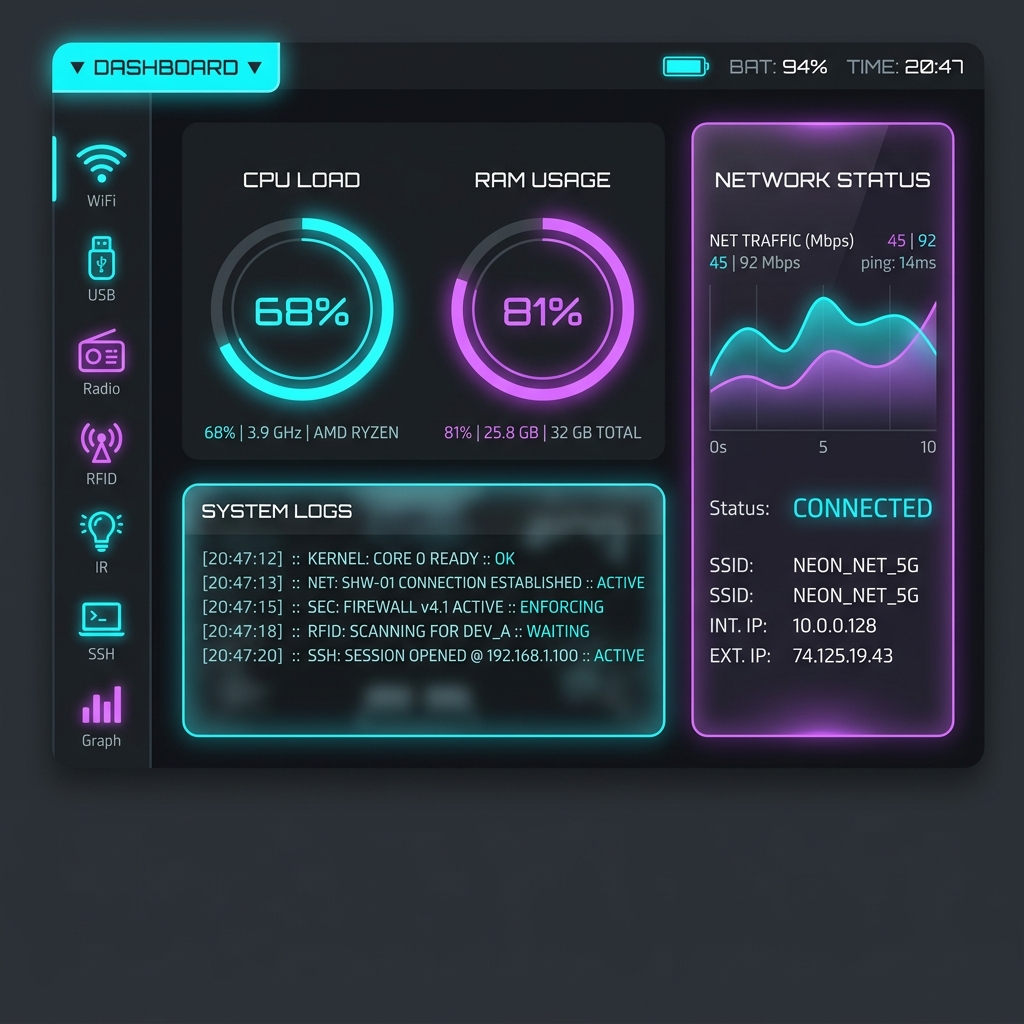
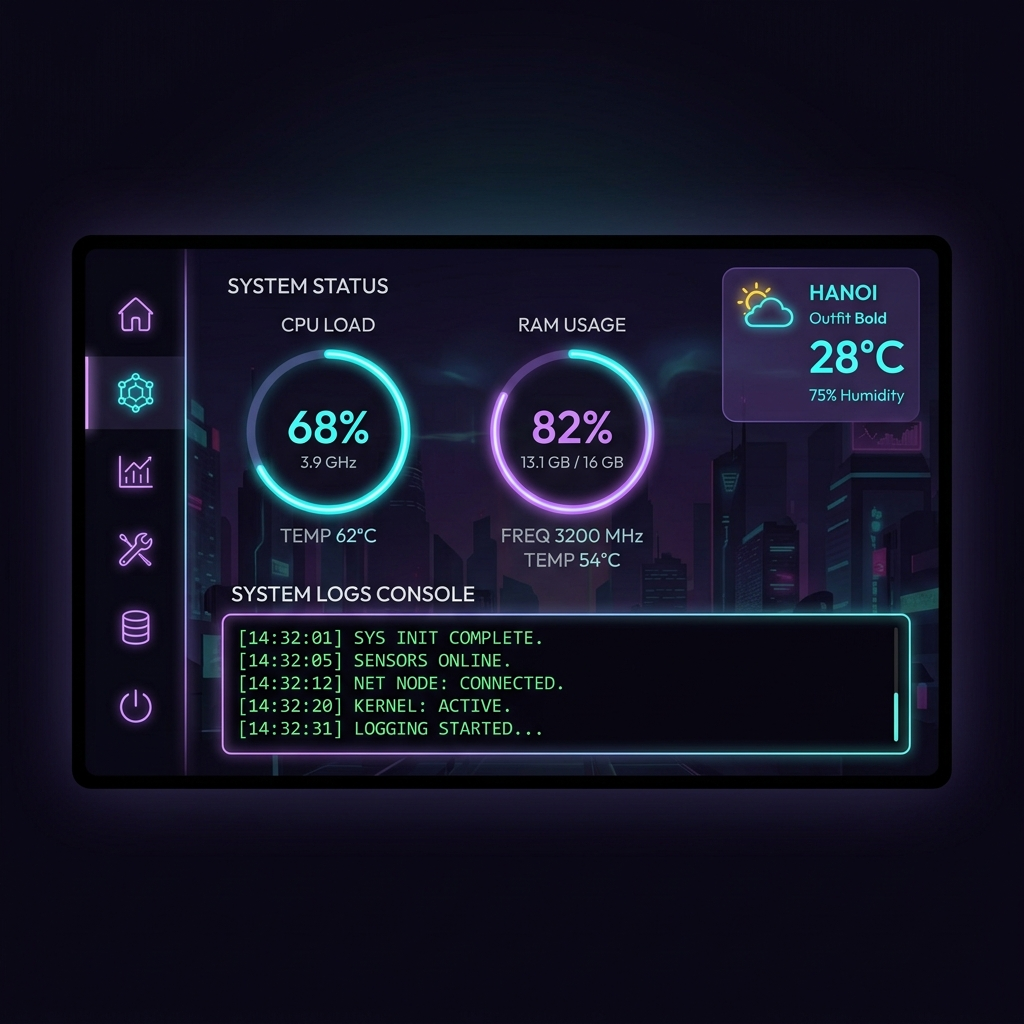
feat: implement automatic GeoIP weather client updating every 30 mins and integrate HMI DWIN Page 0 weather widget

diff --git a/ESP32_C5_Net/src/weather/weather_client.c b/ESP32_C5_Net/src/weather/weather_client.c
@@ -1,0 +1,211 @@
+#include "weather_client.h"
+#include <string.h>
+#include "esp_log.h"
+#include "esp_http_client.h"
+#include "cJSON.h"
+#include "freertos/FreeRTOS.h"
+#include "freertos/task.h"
+#include "freertos/event_groups.h"
+
+static const char *TAG = "WEATHER";
+
+// Getter cho wifi_event_group từ main.c
+extern EventGroupHandle_t get_wifi_event_group(void);
+#define WIFI_CONNECTED_BIT BIT0
+
+extern void send_to_rp2350(const char *msg);
+
+// Buffer lưu kết quả HTTP response
+static char *response_buffer = NULL;
+static int response_len = 0;
+
+static esp_err_t http_event_handler(esp_http_client_event_t *evt) {
+    switch(evt->event_id) {
+        case HTTP_EVENT_ON_DATA:
+            if (!esp_http_client_is_chunked_response(evt->client)) {
+                if (response_buffer == NULL) {
+                    response_buffer = malloc(evt->data_len + 1);
+                    if (response_buffer) {
+                        memcpy(response_buffer, evt->data, evt->data_len);
+                        response_len = evt->data_len;
+                        response_buffer[response_len] = '\0';
+                    }
+                } else {
+                    char *new_buf = realloc(response_buffer, response_len + evt->data_len + 1);
+                    if (new_buf) {
+                        response_buffer = new_buf;
+                        memcpy(response_buffer + response_len, evt->data, evt->data_len);
+                        response_len += evt->data_len;
+                        response_buffer[response_len] = '\0';
+                    }
+                }
+            }
+            break;
+        case HTTP_EVENT_ON_FINISH:
+            ESP_LOGD(TAG, "HTTP_EVENT_ON_FINISH");
+            break;
+        case HTTP_EVENT_DISCONNECTED:
+            ESP_LOGD(TAG, "HTTP_EVENT_DISCONNECTED");
+            break;
+        default:
+            break;
+    }
+    return ESP_OK;
+}
+
+// Lấy tọa độ kinh/vĩ độ bằng ip-api.com
+static bool get_location(double *lat, double *lon) {
+    if (response_buffer) {
+        free(response_buffer);
+        response_buffer = NULL;
+    }
+    response_len = 0;
+
+    esp_http_client_config_t config = {
+        .url = "http://ip-api.com/json/",
+        .event_handler = http_event_handler,
+    };
+    esp_http_client_handle_t client = esp_http_client_init(&config);
+    if (!client) {
+        ESP_LOGE(TAG, "Failed to init HTTP client for location");
+        return false;
+    }
+    esp_err_t err = esp_http_client_perform(client);
+    if (err == ESP_OK && response_buffer) {
+        cJSON *json = cJSON_Parse(response_buffer);
+        if (json) {
+            cJSON *status = cJSON_GetObjectItem(json, "status");
+            if (status && strcmp(status->valuestring, "success") == 0) {
+                cJSON *lat_item = cJSON_GetObjectItem(json, "lat");
+                cJSON *lon_item = cJSON_GetObjectItem(json, "lon");
+                if (lat_item && lon_item) {
+                    *lat = lat_item->valuedouble;
+                    *lon = lon_item->valuedouble;
+                    ESP_LOGI(TAG, "Detected location lat: %f, lon: %f", *lat, *lon);
+                    cJSON_Delete(json);
+                    esp_http_client_cleanup(client);
+                    return true;
+                }
+            }
+            cJSON_Delete(json);
+        }
+    } else {
+        ESP_LOGE(TAG, "HTTP Location request failed: %s", esp_err_to_name(err));
+    }
+    esp_http_client_cleanup(client);
+    return false;
+}
+
+// Lấy dữ liệu thời tiết bằng Open-Meteo
+static bool get_weather(double lat, double lon, int *temp, int *humidity, int *icon_id) {
+    if (response_buffer) {
+        free(response_buffer);
+        response_buffer = NULL;
+    }
+    response_len = 0;
+
+    char url[256];
+    snprintf(url, sizeof(url), "http://api.open-meteo.com/v1/forecast?latitude=%f&longitude=%f&current=temperature_2m,relative_humidity_2m,weather_code", lat, lon);
+
+    esp_http_client_config_t config = {
+        .url = url,
+        .event_handler = http_event_handler,
+    };
+    esp_http_client_handle_t client = esp_http_client_init(&config);
+    if (!client) {
+        ESP_LOGE(TAG, "Failed to init HTTP client for weather");
+        return false;
+    }
+    esp_err_t err = esp_http_client_perform(client);
+    if (err == ESP_OK && response_buffer) {
+        cJSON *json = cJSON_Parse(response_buffer);
+        if (json) {
+            cJSON *current = cJSON_GetObjectItem(json, "current");
+            if (current) {
+                cJSON *t_item = cJSON_GetObjectItem(current, "temperature_2m");
+                cJSON *h_item = cJSON_GetObjectItem(current, "relative_humidity_2m");
+                cJSON *code_item = cJSON_GetObjectItem(current, "weather_code");
+                if (t_item && h_item && code_item) {
+                    *temp = (int)(t_item->valuedouble + 0.5);
+                    *humidity = h_item->valueint;
+                    int wcode = code_item->valueint;
+                    
+                    // Ánh xạ mã thời tiết WMO sang Icon HMI DWIN
+                    // 0 = Nắng, 1 = Mây, 2 = Mưa, 3 = Dông sét
+                    if (wcode == 0) {
+                        *icon_id = 0; // Trời quang (Nắng)
+                    } else if (wcode >= 1 && wcode <= 3) {
+                        *icon_id = 1; // Nhiều mây
+                    } else if ((wcode >= 51 && wcode <= 67) || (wcode >= 80 && wcode <= 82)) {
+                        *icon_id = 2; // Mưa dông nhẹ / Mưa rào
+                    } else if (wcode >= 95) {
+                        *icon_id = 3; // Dông sét bão
+                    } else {
+                        *icon_id = 1; // Mặc định nhiều mây
+                    }
+                    
+                    ESP_LOGI(TAG, "Weather: Temp=%dC, Humid=%d%%, Code=%d (Icon=%d)", *temp, *humidity, wcode, *icon_id);
+                    cJSON_Delete(json);
+                    esp_http_client_cleanup(client);
+                    return true;
+                }
+            }
+            cJSON_Delete(json);
+        }
+    } else {
+        ESP_LOGE(TAG, "HTTP Weather request failed: %s", esp_err_to_name(err));
+    }
+    esp_http_client_cleanup(client);
+    return false;
+}
+
+static void weather_task(void *pvParameters) {
+    ESP_LOGI(TAG, "Weather Task started. Waiting for Wi-Fi...");
+    EventGroupHandle_t wifi_eg = get_wifi_event_group();
+    if (!wifi_eg) {
+        ESP_LOGE(TAG, "Wi-Fi Event Group is NULL. Delaying...");
+        vTaskDelay(pdMS_TO_TICKS(5000));
+        wifi_eg = get_wifi_event_group();
+    }
+    
+    if (wifi_eg) {
+        xEventGroupWaitBits(wifi_eg, WIFI_CONNECTED_BIT, pdFALSE, pdTRUE, portMAX_DELAY);
+    } else {
+        vTaskDelay(pdMS_TO_TICKS(10000)); // Tránh crash
+    }
+    
+    ESP_LOGI(TAG, "Wi-Fi Connected. Fetching weather...");
+    
+    double lat = 21.0285; // Mặc định Hà Nội
+    double lon = 105.8542;
+    
+    // Thử dò IP
+    if (get_location(&lat, &lon)) {
+        ESP_LOGI(TAG, "Successfully detected location via IP.");
+    } else {
+        ESP_LOGW(TAG, "Failed to detect location, using default (Hanoi).");
+    }
+
+    while (1) {
+        int temp = 25;
+        int humidity = 70;
+        int icon_id = 0;
+        
+        if (get_weather(lat, lon, &temp, &humidity, &icon_id)) {
+            // Định dạng chuỗi gửi sang RP2350: WTH:temp:humid:icon
+            char spi_msg[64];
+            snprintf(spi_msg, sizeof(spi_msg), "WTH:%d:%d:%d", temp, humidity, icon_id);
+            send_to_rp2350(spi_msg);
+        } else {
+            ESP_LOGE(TAG, "Failed to update weather data.");
+        }
+        
+        // Chờ 30 phút (30 * 60 * 1000 ms)
+        vTaskDelay(pdMS_TO_TICKS(30 * 60 * 1000));
+    }
+    vTaskDelete(NULL);
+}
+
+void weather_init(void) {
+    xTaskCreate(weather_task, "weather_task", 8192, NULL, 4, NULL);
+}

diff --git a/ESP32_C5_Net/src/main.c b/ESP32_C5_Net/src/main.c
@@ -18,6 +18,7 @@
 #include "flasher/rp2350_swd_flasher.h"
 #include "ota/ota_server.h"
 #include "deauther/task_manager.h"
+#include "weather/weather_client.h"
 
 // Cấu hình các chân SPI2
 #define GPIO_MOSI 19
@@ -46,6 +47,10 @@ static bool wifi_started = false;
 static EventGroupHandle_t wifi_event_group;
 #define WIFI_CONNECTED_BIT BIT0
 #define WIFI_FAIL_BIT      BIT1
+
+EventGroupHandle_t get_wifi_event_group(void) {
+    return wifi_event_group;
+}
 
 // Các biến cấu hình động (Sẽ được nạp từ bộ nhớ NVS)
 char wifi_ssid[32] = "";
@@ -388,9 +393,12 @@ void app_main(void)
     // Khởi chạy tác vụ cập nhật tài nguyên Dashboard định kỳ 1s
     xTaskCreate(monitor_tick_task, "monitor_tick", 4096, NULL, 5, NULL);
 
-    if (strlen(target_ip) != 0 && strlen(wifi_ssid) != 0) {
+    if (strlen(wifi_ssid) != 0) {
         wifi_init_sta();
-        xTaskCreate(&ssh_task, "ssh_task", 8192, NULL, 5, NULL);
+        weather_init();
+        if (strlen(target_ip) != 0) {
+            xTaskCreate(&ssh_task, "ssh_task", 8192, NULL, 5, NULL);
+        }
     }
     
     while (1) {

diff --git a/RP2350_Core/src/ui/dwin_ui.h b/RP2350_Core/src/ui/dwin_ui.h
@@ -92,8 +92,22 @@ void dwin_listen_keyboard_input(char* out_buffer) {
         if (data_len > 0) {
             strncpy(out_buffer, (char*)data, data_len);
             out_buffer[data_len] = '\0';
-        }
     }
+}
+
+// Hàm đẩy giá trị 16-bit Integer xuống DWIN HMI
+void dwin_write_val(uint16_t address, uint16_t value) {
+    uint8_t packet[8];
+    packet[0] = 0x5A;
+    packet[1] = 0xA5;
+    packet[2] = 0x04; // Length
+    packet[3] = 0x82; // Write Command
+    packet[4] = (address >> 8) & 0xFF;
+    packet[5] = address & 0xFF;
+    packet[6] = (value >> 8) & 0xFF;
+    packet[7] = value & 0xFF;
+    
+    uart_write_blocking(DWIN_UART_ID, packet, 8);
 }
 
 #endif // DWIN_UI_H

diff --git a/RP2350_Core/src/main.c b/RP2350_Core/src/main.c
@@ -385,6 +385,14 @@ int main() {
                 dwin_write_text(0x0400, "History Data Chunks:\n");
                 dwin_write_text(0x0400, (char*)spi_rx_buf + 9);
             }
+            else if (strncmp((char*)spi_rx_buf, "WTH:", 4) == 0) {
+                int temp, humidity, icon_id;
+                if (sscanf((char*)spi_rx_buf + 4, "%d:%d:%d", &temp, &humidity, &icon_id) == 3) {
+                    dwin_write_val(0x0160, (uint16_t)temp);
+                    dwin_write_val(0x0162, (uint16_t)humidity);
+                    dwin_write_val(0x0164, (uint16_t)icon_id);
+                }
+            }
         }
         
         sleep_ms(5);

diff --git a/ESP32_C5_Net/src/weather/weather_client.h b/ESP32_C5_Net/src/weather/weather_client.h
@@ -1,0 +1,7 @@
+#ifndef WEATHER_CLIENT_H
+#define WEATHER_CLIENT_H
+
+// Khởi chạy tác vụ lấy thông tin thời tiết tự động định kỳ 30 phút
+void weather_init(void);
+
+#endif // WEATHER_CLIENT_H

diff --git a/HackerHMI_Architecture.md b/HackerHMI_Architecture.md
@@ -149,6 +149,9 @@ Màn hình DWIN HMI tương tác với RP2350 thông qua các địa chỉ biế
 | **`0x0482`** | Text (ASCII) | Write-Only | **RAM Stats:** Nhãn chỉ số RAM thời gian thực (`"RAM: xx%"`) của Monitor Task đang xem. |
 | **`0x0484`** | Text (ASCII) | Write-Only | **Disk Stats:** Nhãn chỉ số dung lượng ổ cứng (`"Disk: xx%"`) của Monitor Task đang xem. |
 | **`0x0490`** | Text (ASCII) | Write-Only | **Deauther Mode String:** Nhãn thể hiện phân loại chế độ hoạt động hiện thời của Wi-Fi. |
+| **`0x0160`** | Integer (16-bit) | Write-Only | **Weather Temperature:** Giá trị nhiệt độ thời tiết đo được bằng độ C hiển thị ở trang chủ Page 0. |
+| **`0x0162`** | Integer (16-bit) | Write-Only | **Weather Humidity:** Giá trị độ ẩm thời tiết đo được tính bằng % RH hiển thị ở trang chủ Page 0. |
+| **`0x0164`** | Variable Icon (16-bit) | Write-Only | **Weather Icon:** Biểu tượng trạng thái thời tiết hiển thị ở trang chủ Page 0 (0 = Nắng, 1 = Mây, 2 = Mưa, 3 = Dông sét). |
 | **`0x0600-0x0606`** | Variable Icon (16-bit) | Write-Only | **Device Online Status:** Chấm tròn trạng thái Online/Offline cho 4 thiết bị (1 = Green dot, 0 = Gray dot). |
 | **`0x0610-0x0616`** | Variable Icon (16-bit) | Write-Only | **Device Session Frame:** Khung sáng neon xanh dương biểu thị có tiến trình chạy ngầm (1 = Show glowing border, 0 = Hide). |
 | **`0x5000`** | Text (ASCII) | Read-Only | **Keyboard Command Input:** Vùng đệm bàn phím ảo của DWIN. Mỗi khi người dùng gõ lệnh hoặc nhập thông số cấu hình và nhấn Enter, DWIN sẽ ghi vào địa chỉ này và gửi sự kiện ngắt báo cho RP2350 đọc. |

diff --git a/HackerHMI_UI_Design.md b/HackerHMI_UI_Design.md
@@ -48,6 +48,10 @@ Dưới đây là bản thiết kế mockup trực quan cho **Trang chủ Dashbo
 *   **System Status indicators:**
     *   *Widget:* Variable Icon (hiển thị trạng thái kết nối)
     *   *VP Address:* `0x0150` (0 = Disconnected, 1 = Wi-Fi connected, 2 = VPN Active).
+*   **Weather Widget (Thông tin thời tiết):**
+    *   *Nhiệt độ (Temperature):* VP `0x0160` (16-bit Integer, e.g. `28` displays as `28 °C`) - Tọa độ: X=820, Y=20
+    *   *Độ ẩm (Humidity):* VP `0x0162` (16-bit Integer, e.g. `75` displays as `75 %`) - Tọa độ: X=920, Y=20
+    *   *Icon Thời tiết (Weather Icon):* VP `0x0164` (Variable Icon: 0 = Nắng, 1 = Mây, 2 = Mưa, 3 = Dông sét) - Tọa độ: X=780, Y=15
 
 ### Trang 1: Wi-Fi Deauther
 *   **Console Output Area:**
